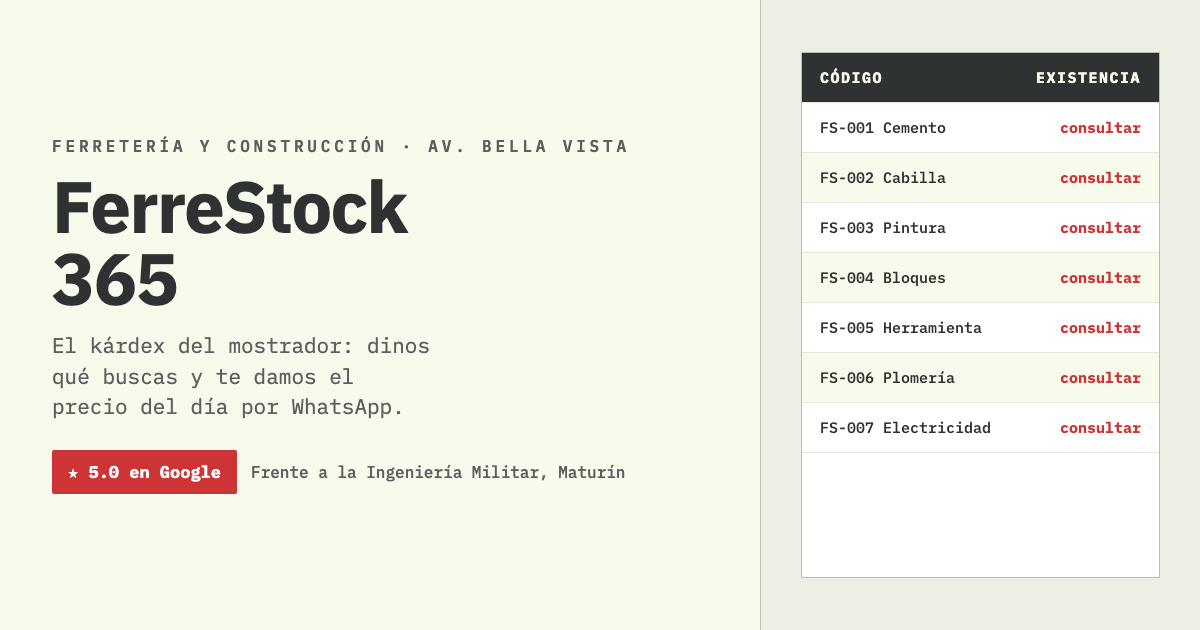
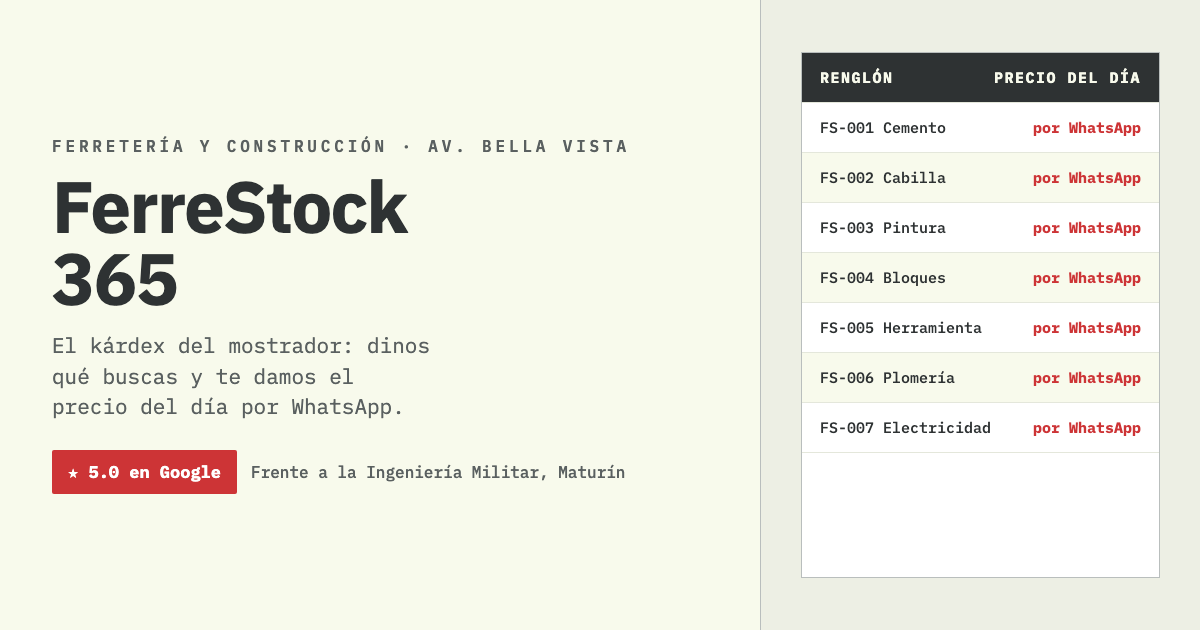
fix(ferrestock-365): the share card no longer implies a stock column
A column headed EXISTENCIA says the page tracks inventory even when every cell
reads 'consultar' — the same claim 32d89b3 removed from the board itself. The
card now uses the page's own wording: RENGLÓN / PRECIO DEL DÍA, por WhatsApp.

diff --git a/ferrestock-365/preview.source.html b/ferrestock-365/preview.source.html
@@ -33,6 +33,6 @@ body{width:1200px;height:630px;overflow:hidden;background:#F8FAEC;color:#2E3233;
     <p class="claim">El kárdex del mostrador: dinos qué buscas y te damos el precio del día por WhatsApp.</p>
     <div class="foot"><span class="chip">★ 5.0 en Google</span><span class="loc">Frente a la Ingeniería Militar, Maturín</span></div>
   </div>
-  <div class="panel"><div class="kardex"><div><span>CÓDIGO</span><span>EXISTENCIA</span></div><div><span>FS-001 Cemento</span><b>consultar</b></div><div><span>FS-002 Cabilla</span><b>consultar</b></div><div><span>FS-003 Pintura</span><b>consultar</b></div><div><span>FS-004 Bloques</span><b>consultar</b></div><div><span>FS-005 Herramienta</span><b>consultar</b></div><div><span>FS-006 Plomería</span><b>consultar</b></div><div><span>FS-007 Electricidad</span><b>consultar</b></div></div></div>
+  <div class="panel"><div class="kardex"><div><span>RENGLÓN</span><span>PRECIO DEL DÍA</span></div><div><span>FS-001 Cemento</span><b>por WhatsApp</b></div><div><span>FS-002 Cabilla</span><b>por WhatsApp</b></div><div><span>FS-003 Pintura</span><b>por WhatsApp</b></div><div><span>FS-004 Bloques</span><b>por WhatsApp</b></div><div><span>FS-005 Herramienta</span><b>por WhatsApp</b></div><div><span>FS-006 Plomería</span><b>por WhatsApp</b></div><div><span>FS-007 Electricidad</span><b>por WhatsApp</b></div></div></div>
 </div>
 </body></html>
